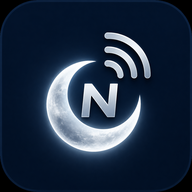
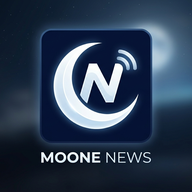
h

diff --git a/index.html b/index.html
@@ -23,7 +23,7 @@
 <a class="skip" href="#content">Skip to content</a>
 <header class="header"><nav class="nav" aria-label="Main navigation"><a class="brand" href="index.html"><img class="brand-logo" src="assets/brand/moone-news-logo.png" alt="MoonE News logo"></a><button class="menu-btn" data-menu>Menu</button><div class="navlinks" data-nav><a href="index.html">Home</a><a href="news.html">Latest News</a><a href="category/technology.html">Technology</a><a href="category/business.html">Business</a><a href="about.html">About</a><a href="contact.html">Contact</a></div></nav></header>
 <main id="content">
-<section class="hero official-hero"><div class="container hero-grid"><div class="hero-main branded-hero"><img class="hero-logo-img" src="assets/brand/moone-news-hero.jpg" alt="MoonE News"><h1>MoonE News</h1><p class="lead">Clear news coverage on technology, business, education, science, and digital life.</p><div class="hero-actions"><a class="btn primary" href="news.html">Read Latest News</a></div></div><aside class="featured"><a class="feature-card" href="posts/the-genius-song-review.html"><small>Top Story</small><h2>The Genius Song Review 2026: What Buyers Should Know Before Getting Access</h2><p>A detailed look at the digital brainwave audio program, its structure, offer details and official access.</p></a></aside></div></section>
+<section class="hero official-hero"><div class="container hero-grid"><div class="hero-main branded-hero"><h1>MoonE News</h1><p class="lead">Clear news coverage on technology, business, education, science, and digital life.</p><div class="hero-actions"><a class="btn primary" href="news.html">Read Latest News</a></div></div><aside class="featured"><a class="feature-card" href="posts/the-genius-song-review.html"><small>Top Story</small><h2>The Genius Song Review 2026: What Buyers Should Know Before Getting Access</h2><p>A detailed look at the digital brainwave audio program, its structure, offer details and official access.</p></a></aside></div></section>
 <section class="section"><div class="container"><div class="section-head"><div><h2>Latest News</h2><p>Recently published stories from MoonE News.</p></div><a class="read" href="news.html">View all →</a></div><div class="grid"><article class="article-card" data-article><a href="posts/moon-reading-review-2026.html"><div class="thumb"><strong>Consumer Guide</strong></div><div class="article-body"><div class="meta"><span>2026-06-05</span></div><h3>Moon Reading Review 2026: Personalized Lunar Astrology Reading Guide</h3><p>Learn what Moon Reading is, how the lunar reading experience works, and how to access the official page.</p><span class="read">Read guide →</span></div></a></article><article class="article-card" data-article><a href="posts/the-genius-song-review.html"><div class="thumb"><strong>Digital Life</strong></div><div class="article-body"><div class="meta"><span>2026-06-05</span></div><h3>The Genius Song Review 2026: 7-Minute Brainwave Audio, Benefits, Price, Bonuses and Official Access</h3><p>A buyer-focused guide to The Genius Song digital audio program, how it works, who it may suit, pricing and official access.</p><span class="read">Read story →</span></div></a></article><article class="article-card" data-article><a href="posts/ai-tools-changing-study-work.html"><div class="thumb"><strong>Technology</strong></div><div class="article-body"><div class="meta"><span>2026-06-05</span></div><h3>AI Tools Are Changing How Students and Workers Learn New Skills</h3><p>Artificial intelligence tools are becoming part of everyday learning and office work.</p><span class="read">Read story →</span></div></a></article><article class="article-card" data-article><a href="posts/smartphone-privacy-settings-guide.html"><div class="thumb"><strong>Digital Life</strong></div><div class="article-body"><div class="meta"><span>2026-06-05</span></div><h3>Smartphone Privacy Settings More Users Should Check Regularly</h3><p>Phones store location, contacts, photos, and browsing activity. A few simple setting checks can improve privacy.</p><span class="read">Read story →</span></div></a></article><article class="article-card" data-article><a href="posts/digital-payments-small-business-trends.html"><div class="thumb"><strong>Business</strong></div><div class="article-body"><div class="meta"><span>2026-06-05</span></div><h3>Digital Payments Continue to Shape Small Business Operations</h3><p>Small shops and independent sellers increasingly rely on digital payment options.</p><span class="read">Read story →</span></div></a></article></div></div></section>
 <section class="section"><div class="container news-layout"><div class="list"><article class="list-item" data-article><a class="list-thumb" href="posts/online-learning-skills-career-update.html">Education</a><div class="list-content"><div class="meta"><span>2026-06-05</span></div><h3><a href="posts/online-learning-skills-career-update.html">Online Learning Pushes Career Skills Beyond Traditional Classrooms</a></h3><p>Short courses, tutorials, and project-based learning are helping people update skills faster than before.</p><a class="read" href="posts/online-learning-skills-career-update.html">Continue reading →</a></div></article><article class="list-item" data-article><a class="list-thumb" href="posts/space-weather-satellites-internet-explainer.html">Science</a><div class="list-content"><div class="meta"><span>2026-06-05</span></div><h3><a href="posts/space-weather-satellites-internet-explainer.html">Why Space Weather Matters for Satellites, GPS, and Communication</a></h3><p>Space weather can affect satellites, navigation systems, and parts of communication infrastructure.</p><a class="read" href="posts/space-weather-satellites-internet-explainer.html">Continue reading →</a></div></article></div><aside class="sidebar"><div class="panel"><h3>Sections</h3><div class="tag-row"><a class="tag" href="category/technology.html">Technology</a><a class="tag" href="category/business.html">Business</a><a class="tag" href="category/education.html">Education</a><a class="tag" href="category/science.html">Science</a></div></div></aside></div></section></main>
 <footer class="footer"><div class="footer-inner"><div><div class="foot-title">MoonE News</div><p>News coverage on technology, business, education, science, and digital life.</p></div><div><div class="foot-title">Sections</div><div class="foot-links"><a href="news.html">Latest News</a><a href="category/technology.html">Technology</a><a href="category/business.html">Business</a><a href="category/science.html">Science</a></div></div><div><div class="foot-title">Company</div><div class="foot-links"><a href="about.html">About</a><a href="privacy-policy.html">Privacy Policy</a><a href="contact.html">Contact</a></div></div></div><div class="copyright">© 2026 MoonE News. All rights reserved.</div></footer><script src="assets/js/main.js"></script>

diff --git a/indexnow-submit.js b/indexnow-submit.js
@@ -3,6 +3,24 @@ const urls = ["https://moonereading.store/news.html", "https://moonereading.stor
   "https://moonereading.store/posts/the-genius-song-review.html",
   "https://moonereading.store/posts/moon-reading-review-2026.html"
 ];
-const data = JSON.stringify({host:'moonereading.store',key:'moonereading-store-indexnow-key-2026',keyLocation:'https://moonereading.store/moone-indexnow-key-2026.txt',urlList:urls});
-const req=https.request({hostname:'api.indexnow.org',path:'/indexnow',method:'POST',headers:{'Content-Type':'application/json','Content-Length':Buffer.byteLength(data)}},res=>{console.log('IndexNow status:',res.statusCode);res.on('data',d=>process.stdout.write(d));});
-req.on('error',console.error);req.write(data);req.end();
+const data = JSON.stringify({
+  host: 'moonereading.store',
+  key: '276b9a22824b40c39cfd65b90df67203',
+  keyLocation: 'https://moonereading.store/276b9a22824b40c39cfd65b90df67203.txt',
+  urlList: urls
+});
+const req = https.request({
+  hostname: 'api.indexnow.org',
+  path: '/indexnow',
+  method: 'POST',
+  headers: {
+    'Content-Type': 'application/json',
+    'Content-Length': Buffer.byteLength(data)
+  }
+}, res => {
+  console.log('IndexNow status:', res.statusCode);
+  res.on('data', d => process.stdout.write(d));
+});
+req.on('error', console.error);
+req.write(data);
+req.end();

diff --git a/assets/css/style.css b/assets/css/style.css
@@ -56,3 +56,9 @@ img{max-width:100%;display:block}
 .branded-hero h1,.branded-hero .lead{color:#fff}
 .branded-hero:after{background:radial-gradient(circle,rgba(255,255,255,.14),transparent 65%)}
 @media(max-width:560px){.brand-logo{height:38px;max-width:175px}.hero-logo-img{border-radius:18px;margin-bottom:20px}}
+
+/* Logo and favicon update */
+.brand-logo{height:52px;width:auto;max-width:260px;object-fit:contain;border-radius:10px}
+.hero-logo-img{display:none!important}
+.branded-hero{min-height:260px;display:flex;flex-direction:column;justify-content:center}
+@media(max-width:560px){.brand-logo{height:42px;max-width:190px}.branded-hero{min-height:220px}}
